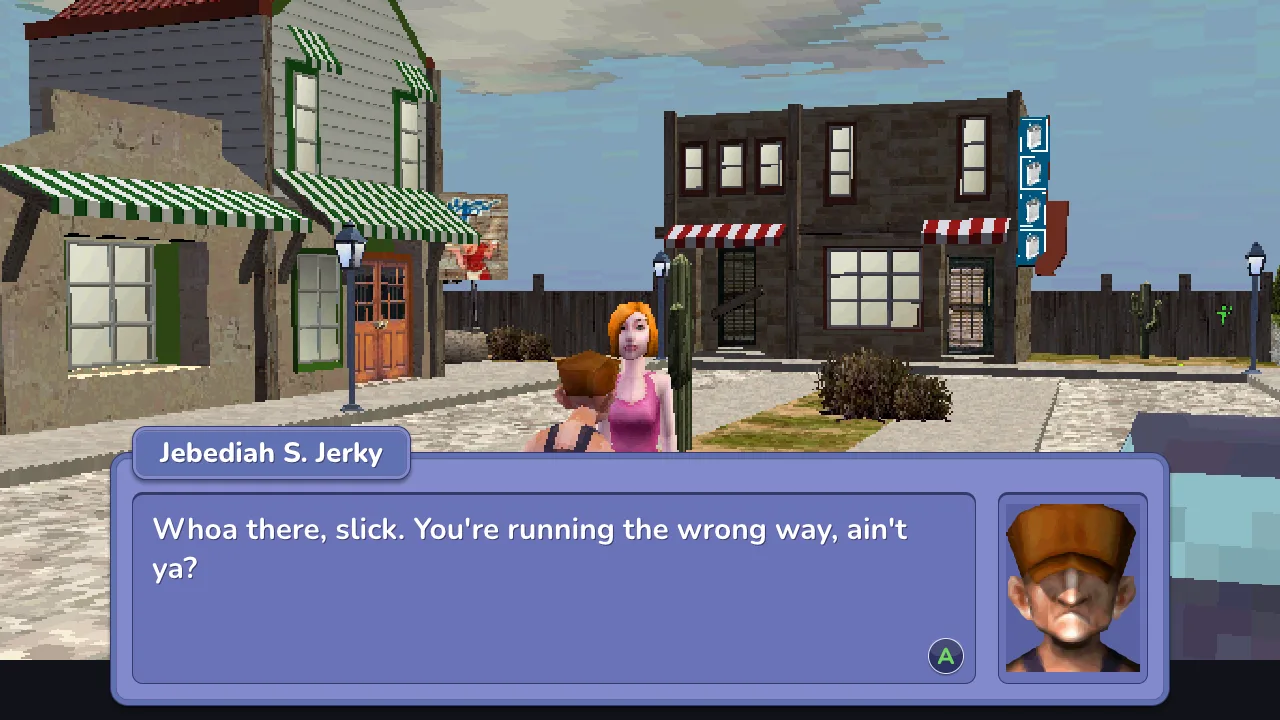
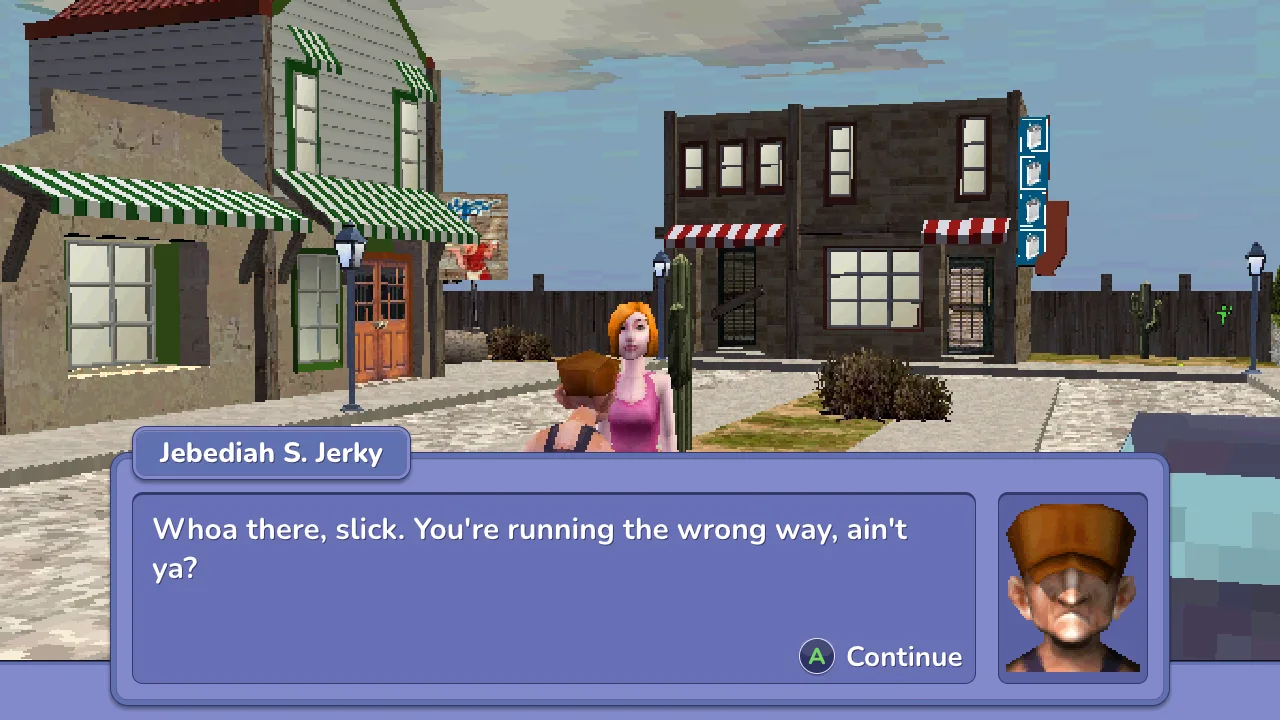
Docs: every picture taken again with the round's look
The sixteen pictures in docs/screenshots come from the same states with
the dev notes' recipe, now in the default Pixel look (--game-pictures
pixel): the focus ring, the hints' words, the cards' kit ring, and the
vacuum taken at frame 270 of vacuum-pick.txt to show its find ringed
with A's hint. The alt texts say what the pictures now show; the
recipe names the vacuum's moment and how the launch panel's folder is
made.

Changed region(s): [[0.0, 0.9167, 1.0, 1.0], [0.625, 0.8861, 0.75, 0.9472]]

diff --git a/README.md b/README.md
@@ -34,16 +34,16 @@
 
 <table>
   <tr>
-    <td><img src="docs/screenshots/menu.webp" alt="The menu's Interact tab in HD over the dimmed casino: Play Keelhaulin', Hotseat, How to Play" width="440"></td>
-    <td><img src="docs/screenshots/dialogue.webp" alt="A conversation in HD: the speaker's name, the words in large type, their portrait" width="440"></td>
+    <td><img src="docs/screenshots/menu.webp" alt="The menu's Interact tab in HD over the dimmed casino: Play Keelhaulin', Hotseat (in the green focus ring), How to Play; the hints say Choose, A Hotseat, B Close" width="440"></td>
+    <td><img src="docs/screenshots/dialogue.webp" alt="A conversation in HD: the speaker's name, the words in large type, their portrait, A Continue" width="440"></td>
   </tr>
   <tr>
-    <td><img src="docs/screenshots/shop.webp" alt="The General Store's catalogue in HD: items in a grid, the chosen one's price and description, the buy button" width="440"></td>
-    <td><img src="docs/screenshots/create-a-sim.webp" alt="Create-a-Sim: the Sim big on the left, the name, gender, skin and keyboard on the right" width="440"></td>
+    <td><img src="docs/screenshots/shop.webp" alt="The General Store's catalogue in HD: items in a grid, the chosen one in the focus ring, its price and description, the buy button, the sell slots at the right" width="440"></td>
+    <td><img src="docs/screenshots/create-a-sim.webp" alt="Create-a-Sim: the Sim big on the left with R Turn under it, the name, gender, skin and keyboard on the right, the hints at the bottom" width="440"></td>
   </tr>
   <tr>
-    <td><img src="docs/screenshots/cards.webp" alt="Keelhaulin' Cards big in its frame, the score board at the right, the button hints below" width="440"></td>
-    <td><img src="docs/screenshots/pause.webp" alt="The pause menu over the dimmed casino: Resume, Settings, Controls, Save states, Change game, Quit" width="440"></td>
+    <td><img src="docs/screenshots/cards.webp" alt="Keelhaulin' Cards big in its frame, a card in the green focus ring, the score board at the right, X Draw a card and B Quit below" width="440"></td>
+    <td><img src="docs/screenshots/pause.webp" alt="The pause menu over the dimmed casino: Resume, Settings, Controls, Save states, Change game, Quit; the hints say how to resume and select" width="440"></td>
   </tr>
 </table>
 

diff --git a/docs/dev-notes.md b/docs/dev-notes.md
@@ -136,14 +136,14 @@ cell); `s3` / `s4` are Create-a-Sim's Name page and Keep this Sim?. Pass `--cloc
 
 The README's and the manual's pictures (`docs/screenshots`, 1280 × 720 webp, game screenshots are allowed): from a
 state on a scratch copy of the complete save, `--headless --frames 120 --layout console --compose --wide --res3d 2
---interp --game-pictures smooth --ui-scale 100 --shot-at 119` with the state's `--clock`: the town (`town.webp`:
+--interp --game-pictures pixel --ui-scale 100 --shot-at 119` (Pixel: the default look) with the state's `--clock`: the town (`town.webp`:
 `L-sit-casino-none-250`, the world prompt after its steady frames), the HD menu (`sit-casino --console-menu
 --console-focus 1`), `A-pk-cnt3-slot1` for Pockets (`--console-focus 0`), `s7` for the phone, `s5` the conversation,
 `sit-storebuy` the shop, `s3` Create-a-Sim, `s2` the main menu, `M-ci-occ-reg2` the Registry (14:00), `G-X-pirate`
-the cards, `G-A-para` the autopsy, `act-vacuum` (14:00); the pause menu's pages with `--frames 64 --shell PAGE
+the cards, `G-A-para` the autopsy, `act-vacuum` (14:00) with `scripts/console/vacuum-pick.txt`, `--frames 300 --shot-at 270` (the gold ring in the focus ring, A's hint to take it); the pause menu's pages with `--frames 64 --shell PAGE
 --shell-at 60 --shot-at 63` (the save states page with a `--data-dir` holding a slot), the launch panel with
 `--launch --frames 4 --shot-at 2` and a `--data-dir` holding `recent.txt` and a suspend state (made by
-`scripts/shell/states.txt`); the PNG saved with Pillow as webp (quality 82). Look at every picture before
+`scripts/shell/states.txt` from `s7`, then `quit.txt` from `sit-casino`, the ROM through a link named `The Sims 2.nds`); the pause menu's pages over `sit-casino`; the PNG saved with Pillow as webp (quality 82). Look at every picture before
 using it: HD everywhere, no milestone-1 picture, no glitch. Only the pictures README.md and docs/manual.md
 show are kept. Every unit test (`ninja -C build
 <name>_test`: layout, touchscript, hotspots, screens, navigator, controls, gamestate, romdata, uikit, pads, shell)

diff --git a/docs/manual.md b/docs/manual.md
@@ -112,7 +112,7 @@ The save slots and the phone, opened from the menu, come back to the menu where 
 
 <p align="center">
   <img src="screenshots/pockets.webp" alt="The Pockets tab: the six slots, the tools and counted items, the highlighted item's name and description, Use and Trash" width="440">
-  <img src="screenshots/phone.webp" alt="The phone: the game's green screen with Messages, Phonebook, Options and Exit, its Up, OK and Down buttons below" width="440">
+  <img src="screenshots/phone.webp" alt="The phone: the game's green screen with Messages, Phonebook, Options and Exit, its Up, OK and Down buttons below, the hints Choose, A and B Close" width="440">
 </p>
 
 ### Shops, the hotel and the rest
@@ -183,7 +183,7 @@ have a pointer on the sticks (LT slows it).
 
 <p align="center">
   <img src="screenshots/autopsy.webp" alt="The Alien Autopsy big with its pointer, the organs' health at the right, the buttons' hints in a bar below" width="440">
-  <img src="screenshots/vacuum.webp" alt="The hotel's vacuum: its bowl big, the lobby small at the right with the earnings, the hints below" width="440">
+  <img src="screenshots/vacuum.webp" alt="The hotel's vacuum: its bowl big, a gold ring in the green focus ring, the lobby small at the right with the earnings, the hints below: A Take a find to the funnel" width="440">
 </p>
 
 | Minigame | Controller | Keyboard | Does |
@@ -270,7 +270,7 @@ Closing the window asks the same question. Every question opens on No, and B is 
 closes with A or B.
 
 <p align="center">
-  <img src="screenshots/pause.webp" alt="The pause menu over the dimmed casino: Resume, Settings, Controls, Save states, Change game, Quit" width="440">
+  <img src="screenshots/pause.webp" alt="The pause menu over the dimmed casino: Resume, Settings, Controls, Save states, Change game, Quit; the hints say how to resume and select" width="440">
   <img src="screenshots/save-states.webp" alt="The save states page: slot 1 with its picture and date, three empty slots, Undo the last load" width="440">
 </p>
 

diff --git a/CHANGELOG.md b/CHANGELOG.md
@@ -132,6 +132,7 @@ Windows, Mac and Linux downloads attached; the release takes its notes from that
 - The README is short and for players; the full manual is `docs/manual.md`.
 - The cards', the social game's and the song save page's keyboard focus is the menus' ring too
   (green with a white line inside), as in the other minigames.
+- The pictures in the README and the manual are taken again with today's look.
 
 ### Fixed
 
